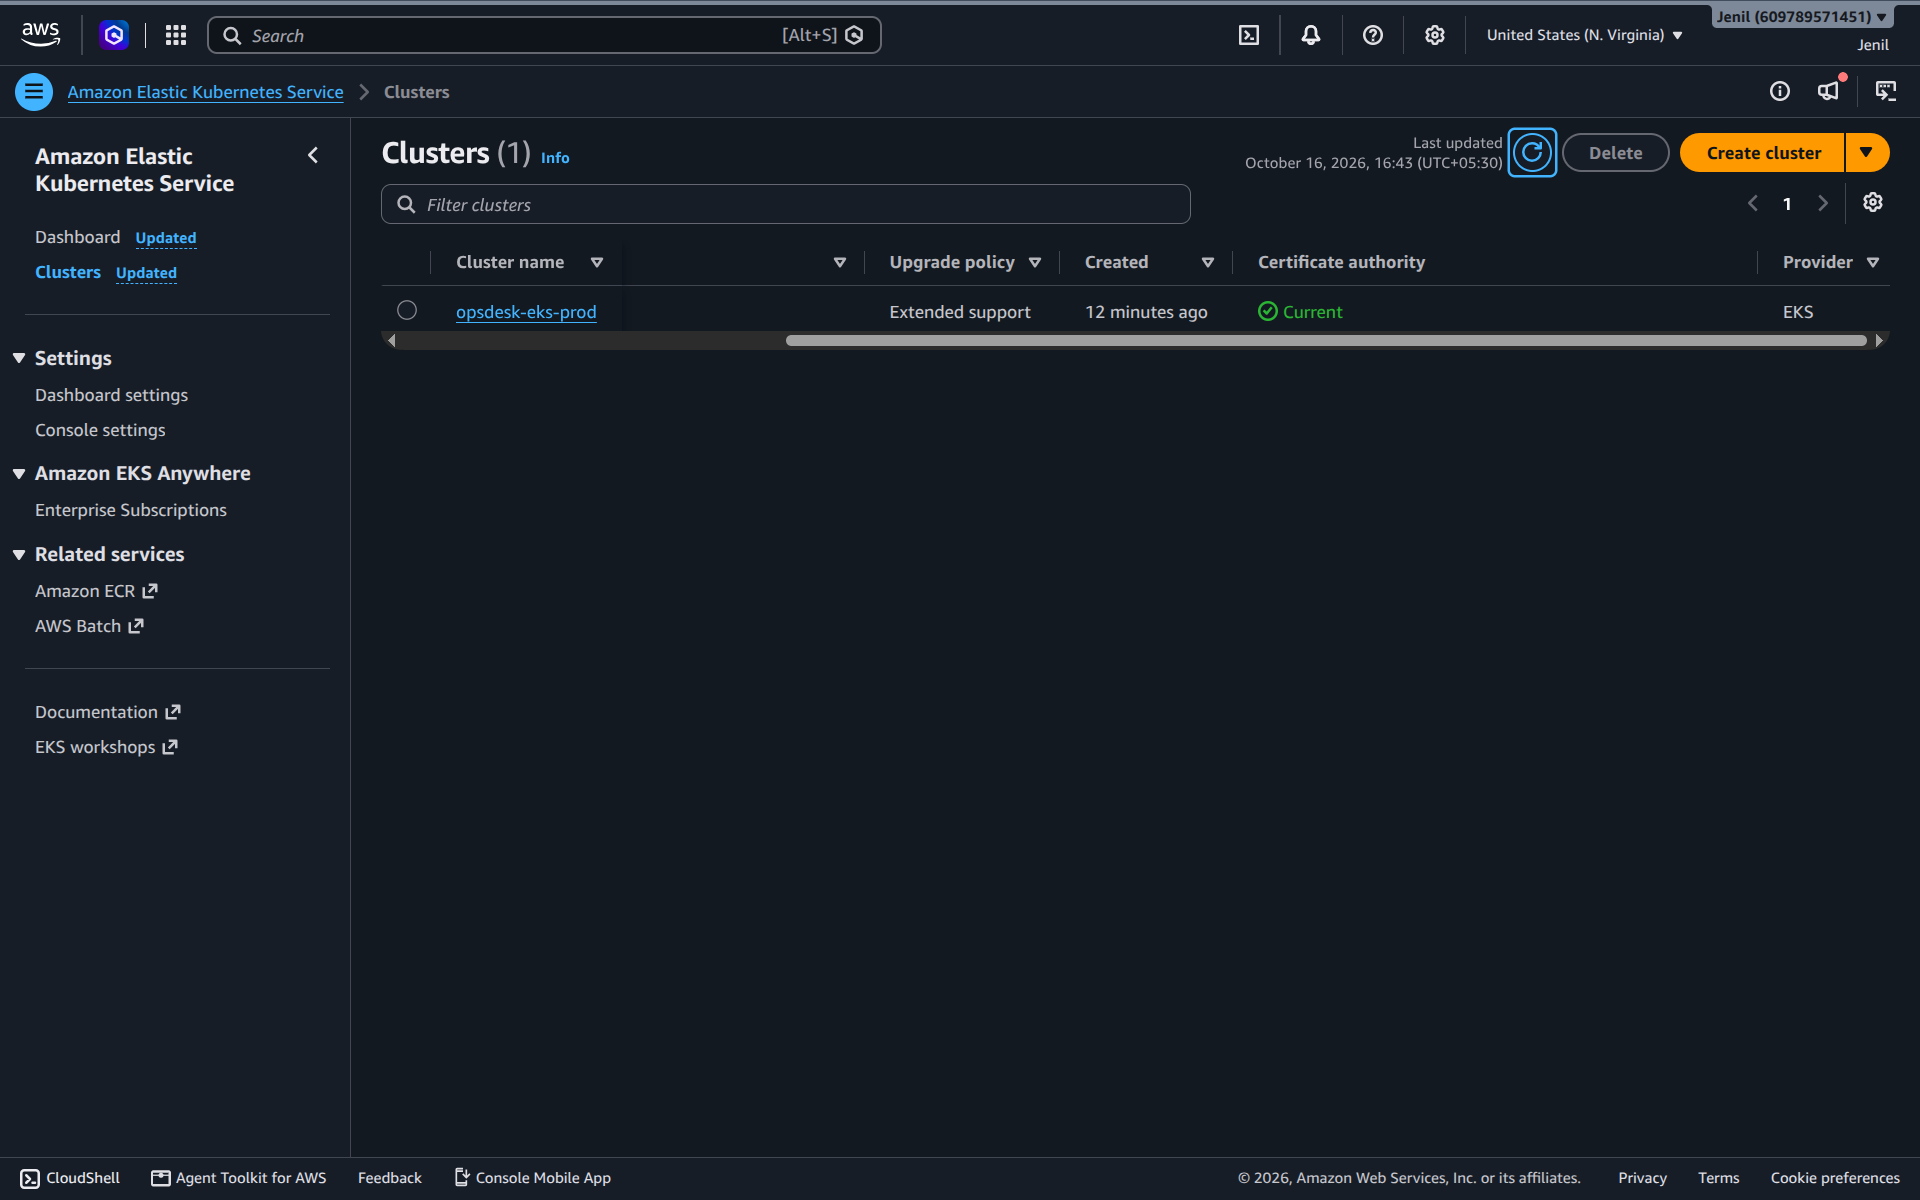
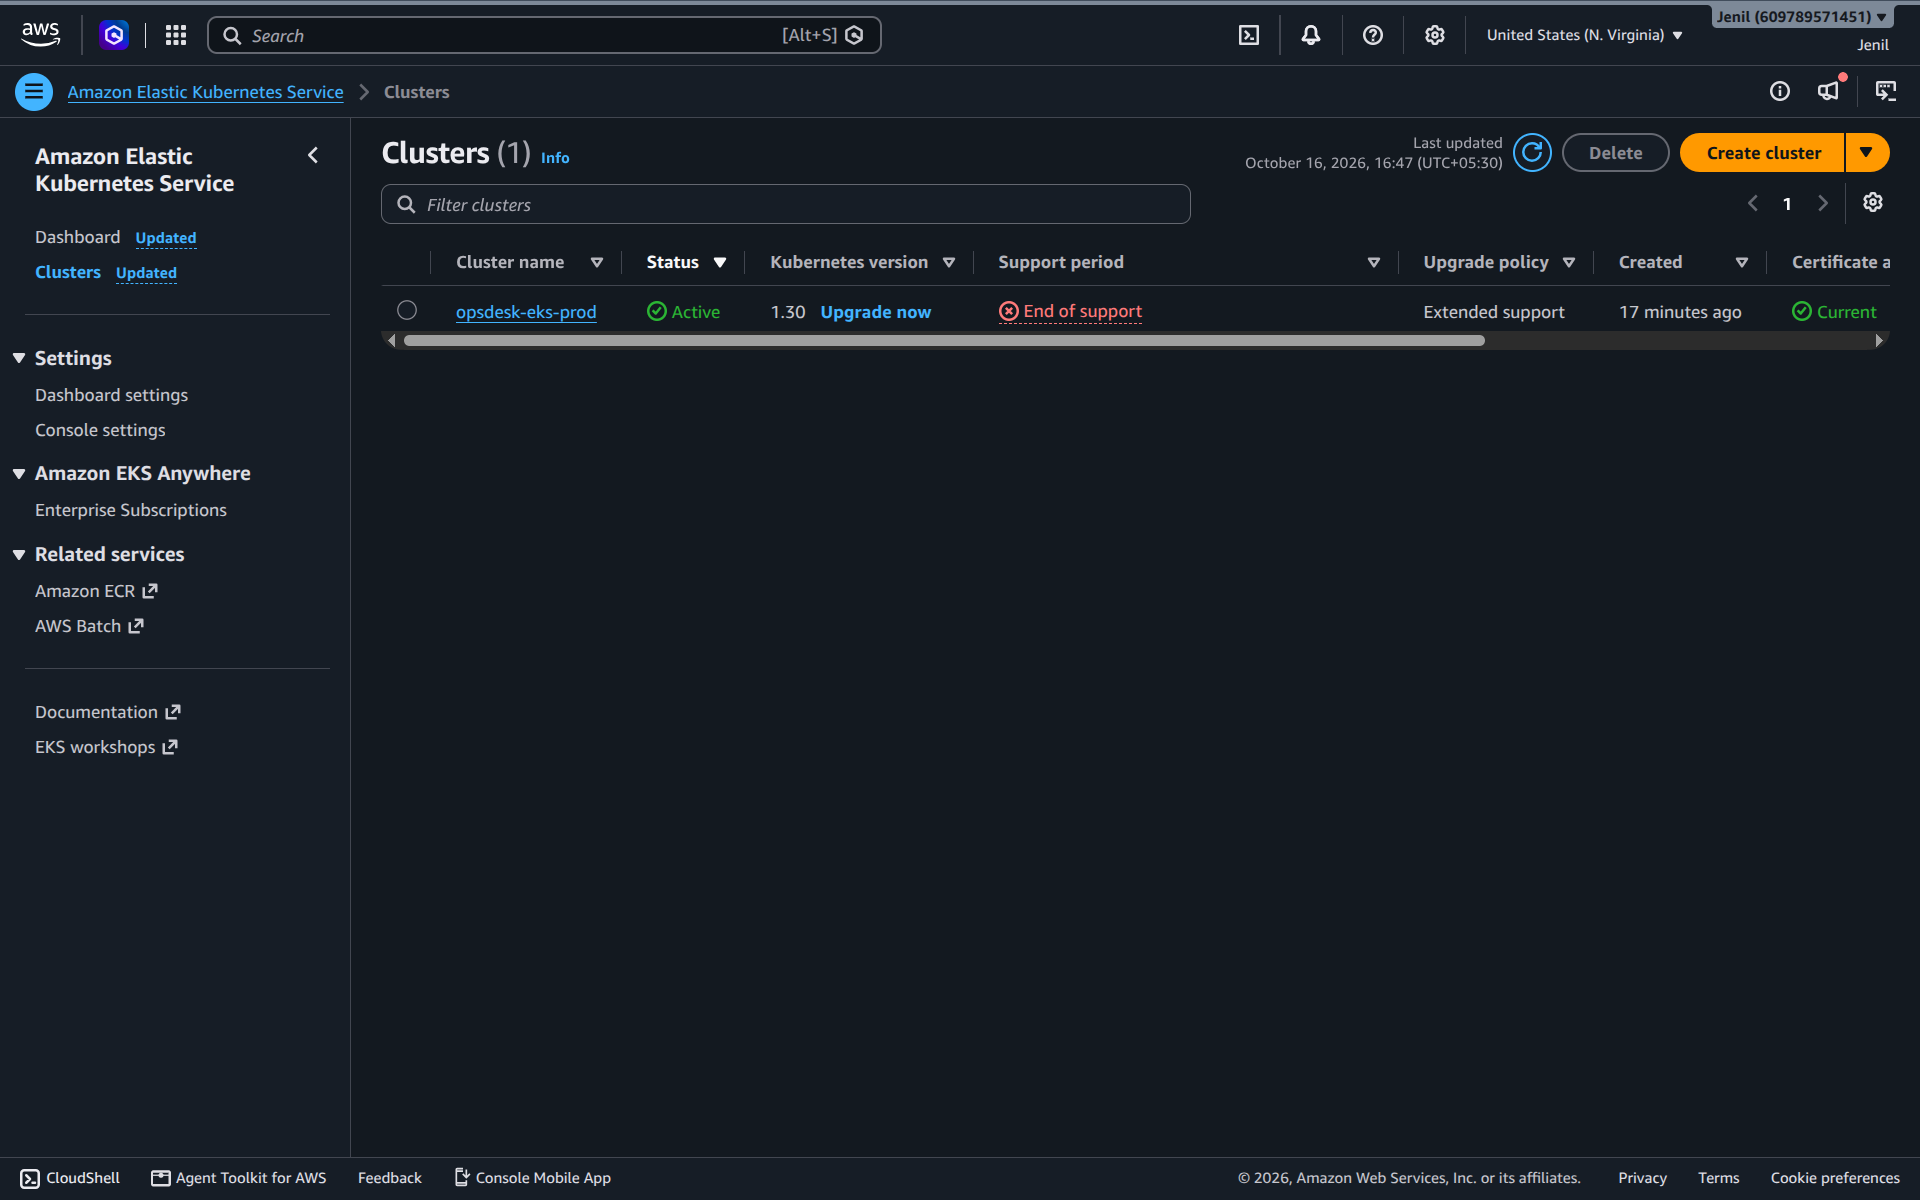
docs: add all 6 live AWS console and CI/CD pipeline screenshots

diff --git a/README.md b/README.md
@@ -191,13 +191,24 @@ terraform apply -auto-approve
 terraform destroy -auto-approve
 ```
 
-### Live AWS EKS Production Cluster
+### Live AWS Infrastructure Console Evidence
+
+#### 1. AWS EKS Production Kubernetes Cluster (`Active`)
 ![AWS EKS Cluster Active](docs/screenshots/aws_eks_cluster_active.png)
 
-### Live AWS VPC & Multi-AZ Subnet Architecture
-![AWS VPC Networking](docs/screenshots/aws_vpc_networking.png)
+#### 2. AWS EKS Cluster Overview & Platform Version
+![AWS EKS Cluster Overview](docs/screenshots/aws_eks_cluster_overview.png)
 
-### Verified Terraform Plan Execution
+#### 3. AWS Custom Production VPC (`10.0.0.0/16`)
+![AWS VPC Production](docs/screenshots/aws_vpc_production.png)
+
+#### 4. AWS Multi-AZ Subnets (Public & Private across `us-east-1a` and `us-east-1b`)
+![AWS Subnets](docs/screenshots/aws_subnets_production.png)
+
+#### 5. AWS Internet Gateway (`opsdesk-igw-production`)
+![AWS Internet Gateway](docs/screenshots/aws_internet_gateway.png)
+
+#### 6. Verified Terraform Plan Execution
 ![Terraform Plan](docs/screenshots/m7_terraform_plan.png)
 
 ---
